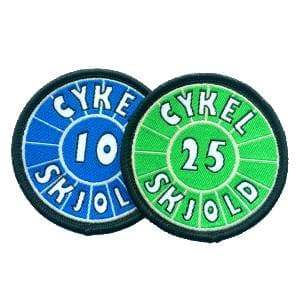
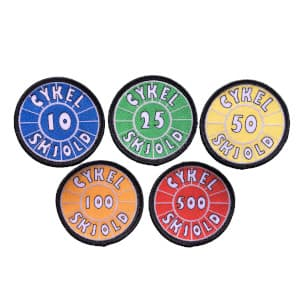
Add fotoloeb-badge and update cykelskjold image

diff --git a/_m/fotoloeb.md b/_m/fotoloeb.md
@@ -1,0 +1,23 @@
+---
+name: Fotoløb
+tags:
+- uofficielt
+image: fotoloeb.jpg
+date_added: 2021-11-12
+buylink: https://natur-kompasset.dk/?page_id=74
+---
+At være på fotoløb er en klassisk spejderaktivitet og alle spejdere har nok deres egen fortolkning af hvad et fotoløb er. Den nedenstående aktivitetsbeskrivelse skal derfor ses som et foreslag til hvordan et fotoløb kan være opbygget.
+
+### For alle aldersgrupper:
+Spejderne får udleveret en række billeder der alle er taget inden for et afgrænset område, f.eks. 1 km af startstedet. Det kan være billeder af huse, vejnavne, statuer eller andre særlige pejlemærker. Billederne får spejderne enten fysisk i hånden eller digitalt på deres mobiltelefoner.
+
+Derefter skal spejderne ud og lede efter lokationerne hvor disse billeder er taget. Når de finder stedet tager de selv et billede, hvilket bruges som bevis på at de lykkedes i deres søgen. Disse billeder fremvises efter endt løb til den/de aktivitetsansvarlige. Herved er løbet gennemført.
+
+### For spejdere 11 år og op:
+Spejderene skal ud over at gennemføre et fotoløb også selv lave et, som andre spejdere eller lederne derefter skal på. Hvis der er flere patruljer i gruppen kan de passende lave et fotoløb for hinanden!
+
+### Justering af sværdhedsgraden:
+Alt efter aldersgruppen og hvor godt spejdernes lokalkendskab er bør sværdhedsgraden tilpasses. Her er nogle eksempler på hvordan dette kan gøres:
+- Billederne kan være zoomet mere ind, så det er svært at se omgivelserne
+- Løbet kan foregå over et større område, så der er længere mellem lokaliteterne
+- Løbet kan finde sted at område spejderne aldrig har været før
